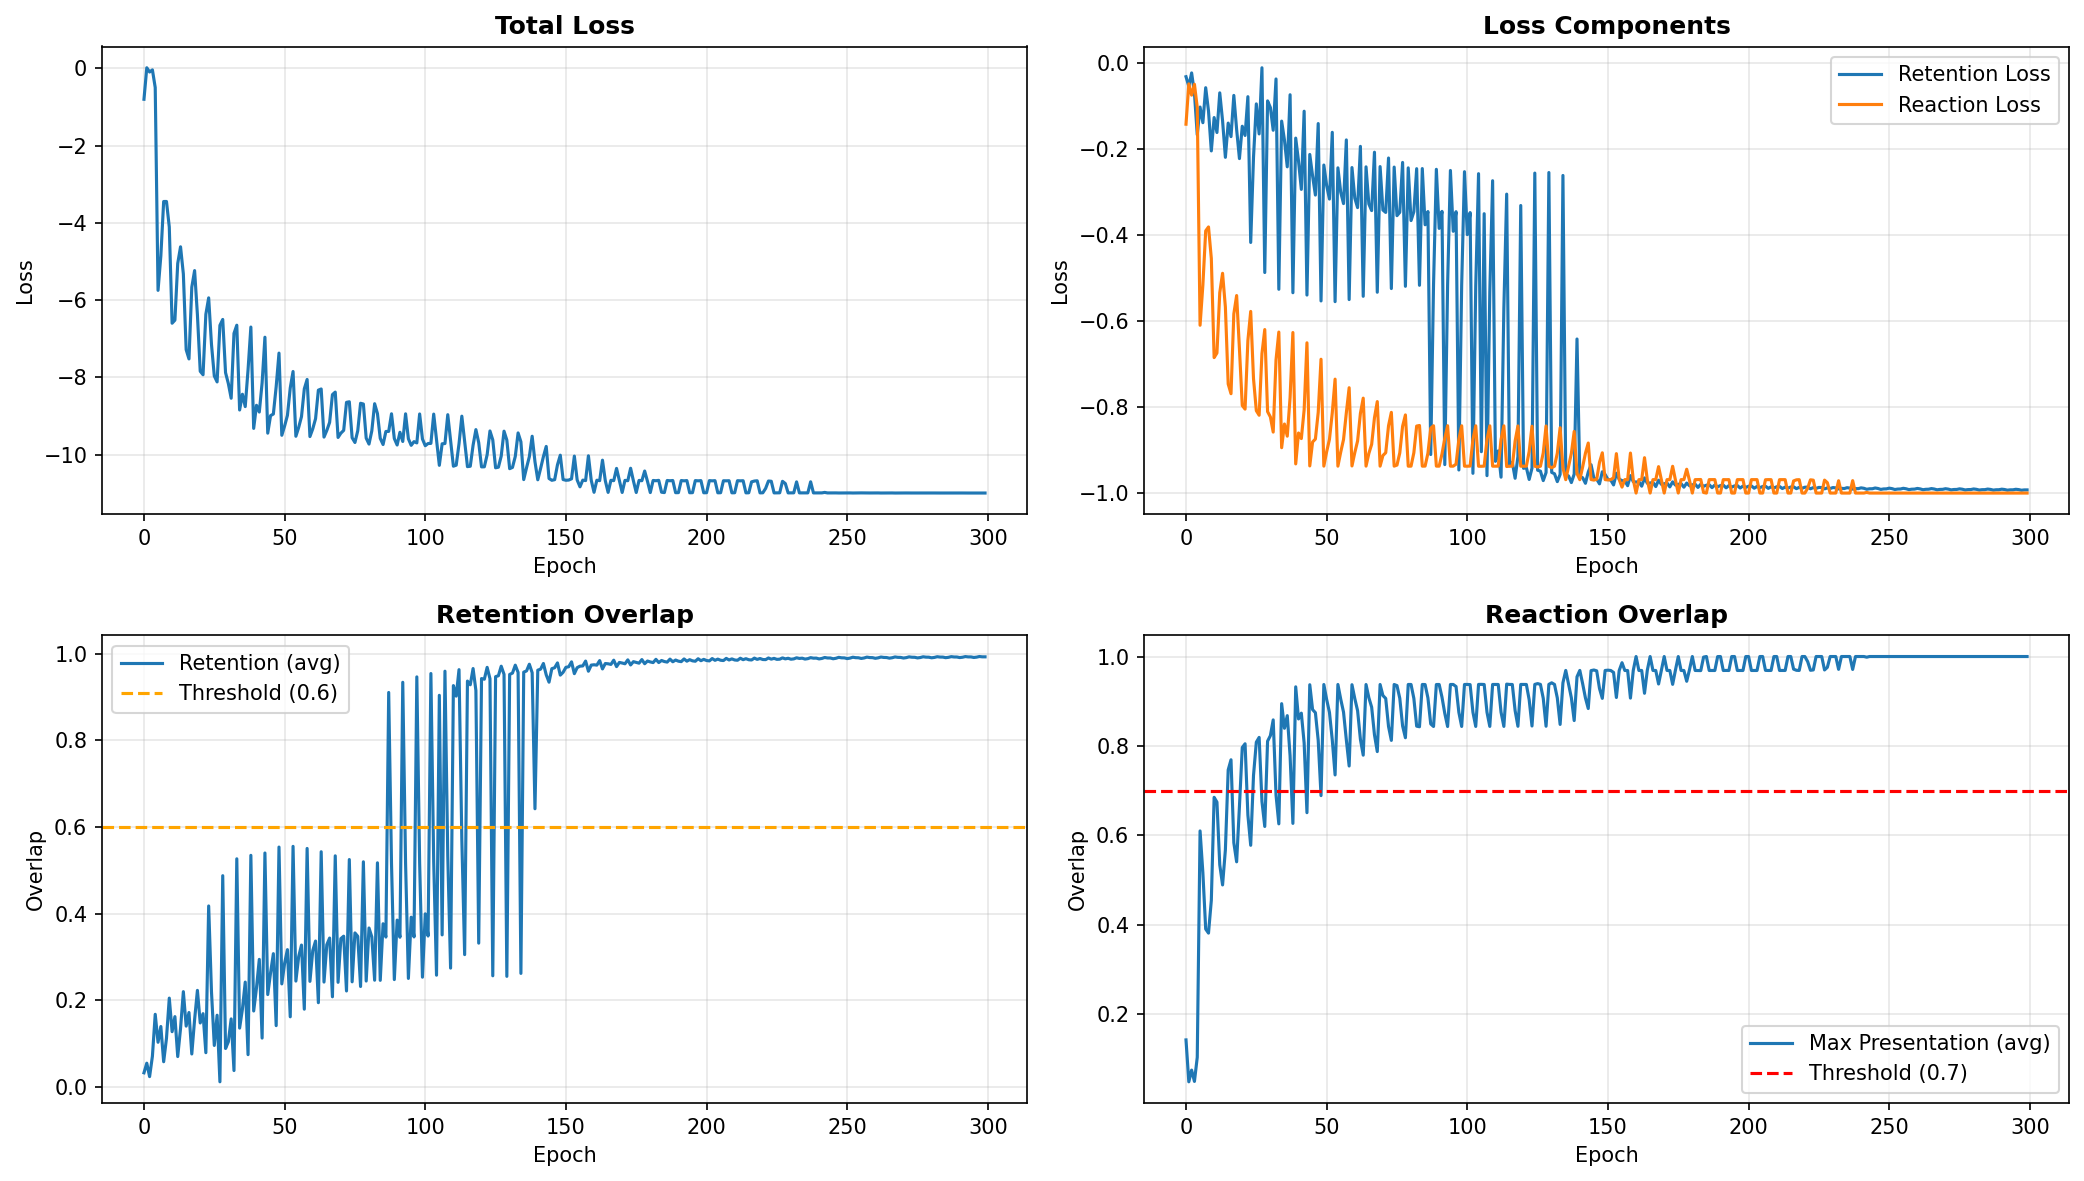
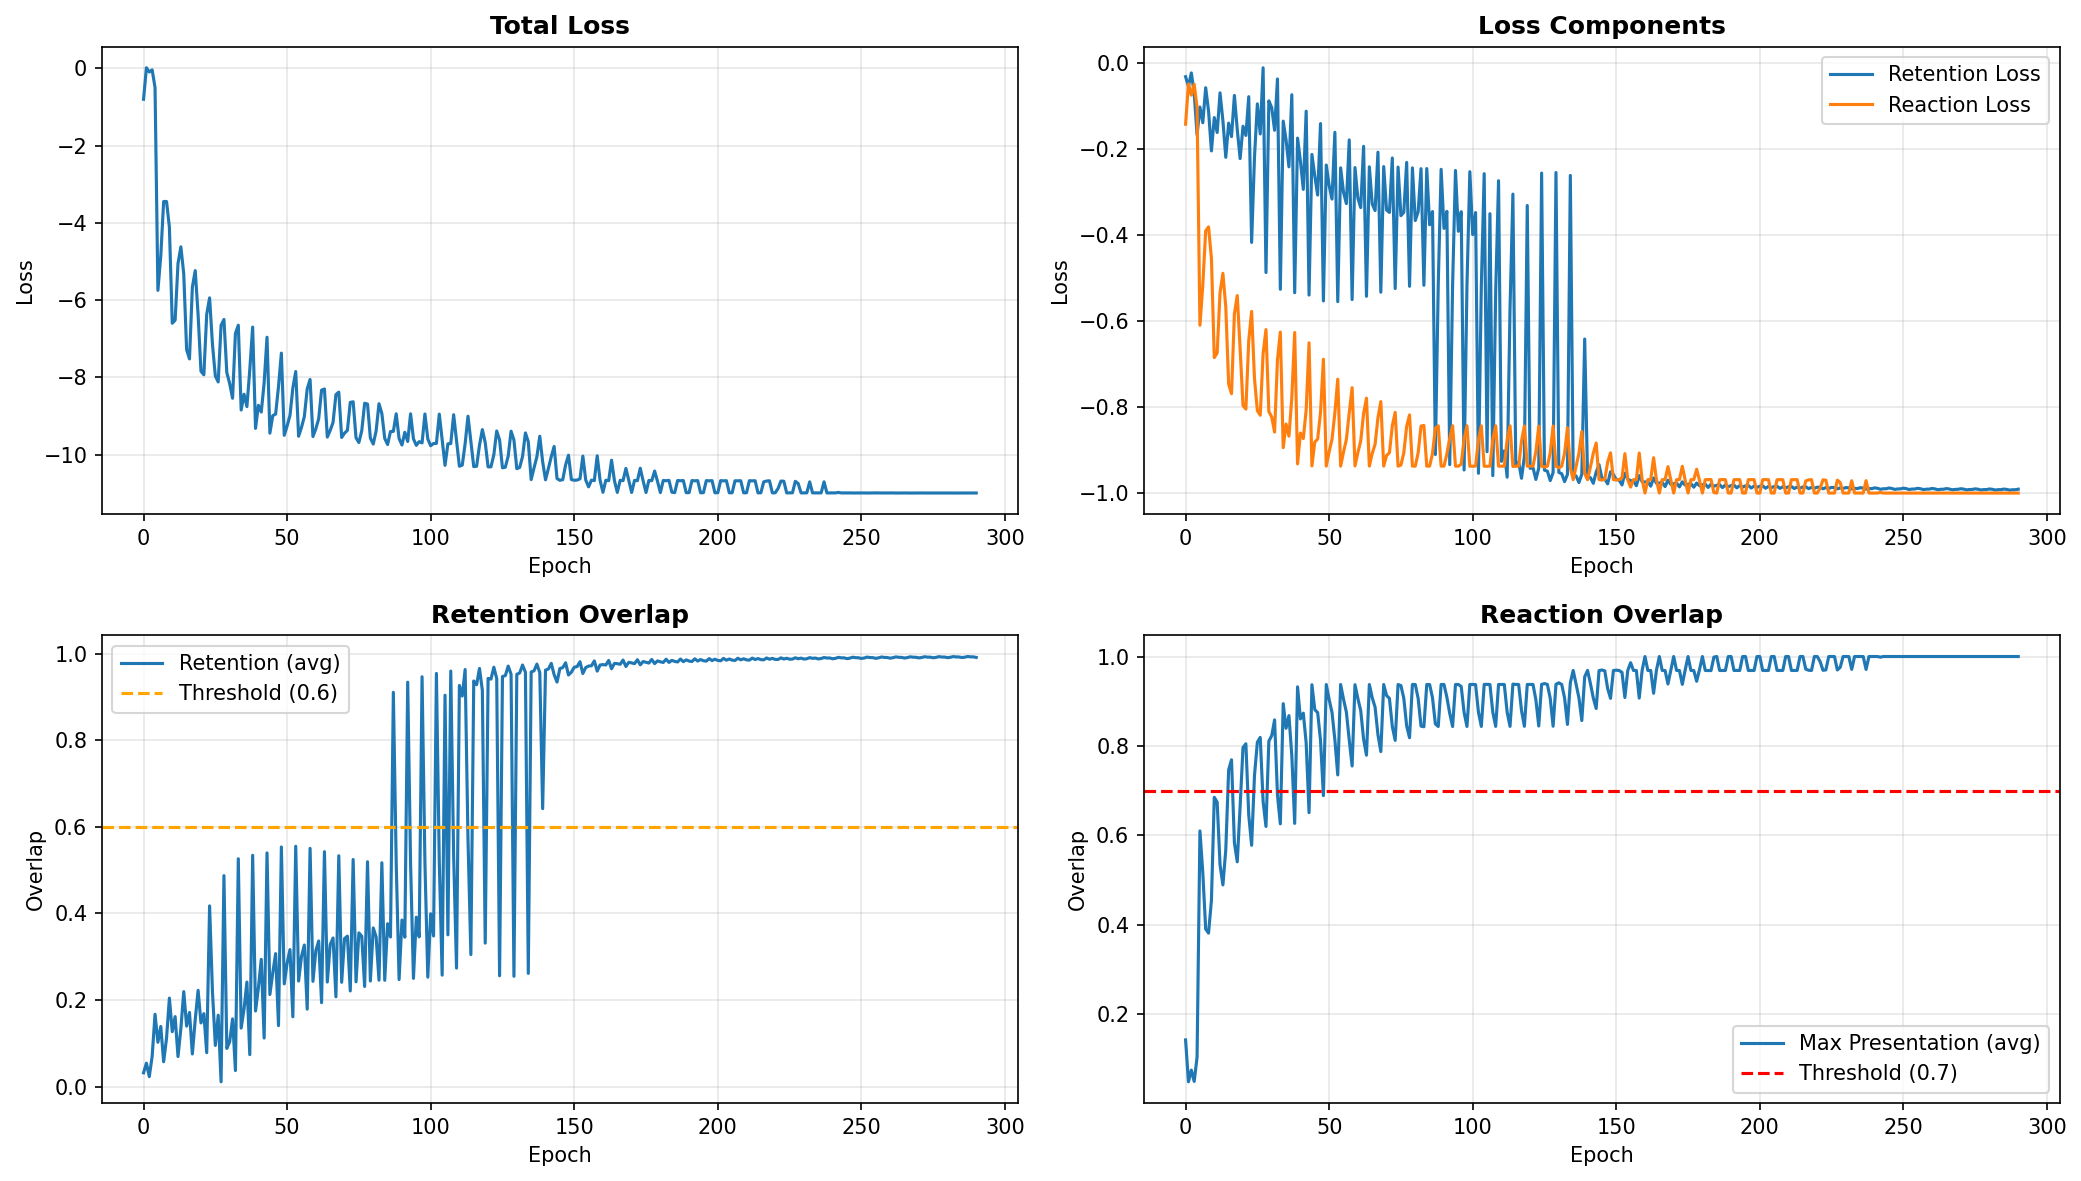
Add sweep for 5-20 memories with strict convergence

diff --git a/hnn_project/hnn_replica/src/rnn_weight_learning.py b/hnn_project/hnn_replica/src/rnn_weight_learning.py
@@ -143,7 +143,16 @@ def compute_fixed_point_loss(model: VanillaRNN, memory_patterns: torch.Tensor, g
 # ----------------------------------------------------------------------------
 # Training & evaluation
 # ----------------------------------------------------------------------------
-def train_rnn(loss_option: str = "a", n_epochs: int = N_EPOCHS, lr: float = LEARNING_RATE, fixed_memory: torch.Tensor | None = None, activation: str = "tanh"):
+def train_rnn(
+    loss_option: str = "a",
+    n_epochs: int = N_EPOCHS,
+    lr: float = LEARNING_RATE,
+    fixed_memory: torch.Tensor | None = None,
+    activation: str = "tanh",
+    target_retention: float = 0.99,
+    target_reaction: float = 0.99,
+    patience: int = 20,
+):
     print("\n" + "=" * 80)
     print(f"TRAINING RNN WITH LOSS OPTION {loss_option.upper()} - ACTIVATION: {activation.upper()}")
     print("=" * 80 + "\n")
@@ -151,7 +160,8 @@ def train_rnn(loss_option: str = "a", n_epochs: int = N_EPOCHS, lr: float = LEAR
     print(f"Activation: {activation}")
     print(f"Total time: {T_TOTAL}s ({TIMESTEPS_TOTAL} steps)")
     print(f"Presentation: {T_PRESENTATION}s ({TIMESTEPS_PRESENTATION} steps)")
-    print(f"Training mode: alternating single memory across {BATCH_SIZE} patterns")
+    n_memories = fixed_memory.shape[0] if fixed_memory is not None else BATCH_SIZE
+    print(f"Training mode: alternating over {n_memories} memories (one per epoch) with batch=1")
     print(f"Loss weights: alpha={ALPHA_RETENTION}, beta={BETA_REACTION}")
     print(f"L2 regularization: lambda={L2_LAMBDA}\n")
 
@@ -161,7 +171,7 @@ def train_rnn(loss_option: str = "a", n_epochs: int = N_EPOCHS, lr: float = LEAR
 
     if fixed_memory is None:
         fixed_memory = generate_memory_patterns(BATCH_SIZE, N_NEURONS)
-    
+
     n_memories = fixed_memory.shape[0]
     for i in range(min(n_memories, 5)):  # Show first 5 memories
         print(f"Memory {i+1} (first 10): {fixed_memory[i, :10].tolist()}")
@@ -177,6 +187,9 @@ def train_rnn(loss_option: str = "a", n_epochs: int = N_EPOCHS, lr: float = LEAR
         "avg_retention": [],
         "avg_reaction": [],
     }
+
+    converged_epoch: int | None = None
+    streak = 0
 
     for epoch in range(n_epochs):
         optimizer.zero_grad()
@@ -203,11 +216,24 @@ def train_rnn(loss_option: str = "a", n_epochs: int = N_EPOCHS, lr: float = LEAR
         history["avg_retention"].append(metrics["avg_retention_overlap"])
         history["avg_reaction"].append(metrics["avg_max_presentation_overlap"])
 
+        if metrics["avg_retention_overlap"] >= target_retention and metrics["avg_max_presentation_overlap"] >= target_reaction:
+            streak += 1
+            if streak >= patience:
+                converged_epoch = epoch + 1
+                print(f"Converged at epoch {converged_epoch} (patience {patience}, targets R={target_retention}, Q={target_reaction})")
+                break
+        else:
+            streak = 0
+
         if (epoch + 1) % 100 == 0 or epoch == 0:
             print(f"Epoch {epoch + 1:5d}/{n_epochs} | Loss: {total_loss.item():.4f} | Retention: {history['avg_retention'][-1]:.3f} | Reaction: {history['avg_reaction'][-1]:.3f}")
 
     print("\n" + "=" * 80)
     print("TRAINING COMPLETE")
+    if converged_epoch is not None:
+        print(f"Early stop: met strict convergence at epoch {converged_epoch}")
+    else:
+        print("Early stop: not reached; ran full schedule")
     print("=" * 80 + "\n")
     return model, history
 
@@ -349,5 +375,28 @@ def run_tanh_five_memory():
     test_model(model, "option_a_tanh_5mem", fixed_memory)
 
 
+def run_tanh_memory_sweep(memory_counts: list[int] | None = None):
+    if memory_counts is None:
+        memory_counts = [5, 10, 15, 20]
+
+    for count in memory_counts:
+        print("\n" + "#" * 80)
+        print(f"RUN {count} MEMORIES")
+        print("#" * 80)
+        fixed_memory = generate_memory_patterns(count, N_NEURONS)
+        suffix = f"option_a_tanh_{count}mem"
+        model, history = train_rnn(
+            loss_option="a",
+            fixed_memory=fixed_memory,
+            activation="tanh",
+            target_retention=0.99,
+            target_reaction=0.99,
+            patience=20,
+        )
+        plot_training_history(history, suffix)
+        visualize_learned_weights(model, suffix)
+        test_model(model, suffix, fixed_memory)
+
+
 if __name__ == "__main__":
-    run_tanh_five_memory()
+    run_tanh_memory_sweep()
